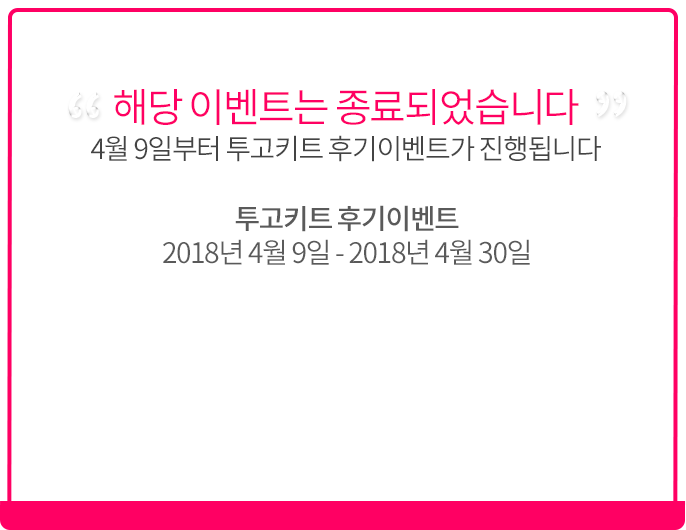
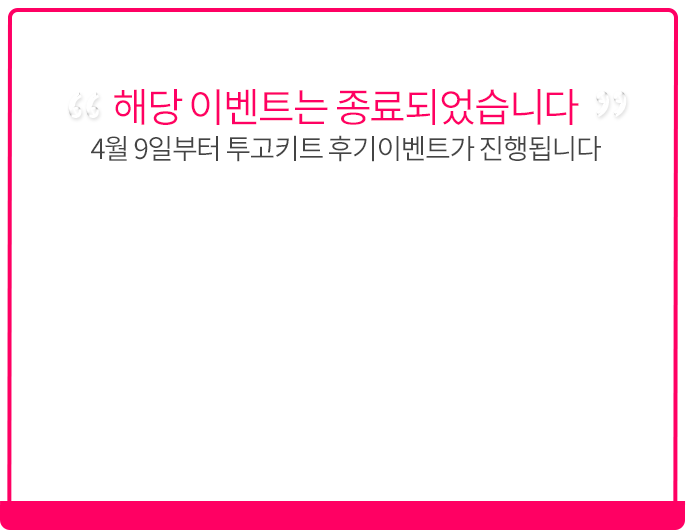
이벤트 1 종료 팝업 완료

Changed region(s): [[0.2449, 0.3925, 0.7959, 0.5132]]

diff --git a/css/common.css b/css/common.css
@@ -160,8 +160,16 @@ a {
 .c-popup.event-end .c-popup__buttons {
 	position: absolute;
 	left: 50%;
-	bottom: 60px;
-	margin-left: -56px;
+	bottom: 100px;
+	margin-left: -81px;
+}
+.c-popup.event-end .c-popup__button {
+	width: 163px;
+	height: 188px;
+	padding: 0 11px 39px 0;
+	background: url(../images/common/c-popup__button_end.png);
+	font-size: 32px;
+	
 }
 
 .c-popup__aligner.c-popup__aligner--line {

diff --git a/m/css/common.css b/m/css/common.css
@@ -191,7 +191,7 @@ a {
 }
 .c-popup.event-end .c-popup__aligner .c-popup__box .c-popup__buttons {
 	position: absolute;
-	bottom: 22px;
+	bottom: 35px;
 	left: 50%;
 	margin-left: -40px;
 }

diff --git a/m/index.php b/m/index.php
@@ -24,9 +24,19 @@
 				<div class="c-section">
 					<div class="m-visual">
 						<img src="./images/pages/m-visual.png" alt="메이크업은 말끔하게 지우고 건강한 피부만 남겨요 ! 제한 시간 동안 메이크업을 말끔하게 지워주세요 추첨을 통해 제품을 선물로 드립니다" />
-						<button class="m-visual__button" onclick="movePage('game')">GAME START</button>
-<!--						<button class="m-visual__button" onclick="popupOpen('popup_event_end');">GAME START</button>-->
 						<button class="m-visual__more">더보기</button>
+<?
+						if(date("Y-m-d H:i:s") > '2018-03-31 23:59:59') {
+?>	
+							<button class="m-visual__button" onclick="popupOpen('popup_event_end');">GAME START</button>
+<?					
+						}else{
+?>
+							<button class="m-visual__button" onclick="movePage('game')">GAME START</button>
+<?
+						}
+?>
+
 					</div>
 				</div>
 				<div class="c-section c-section--large scrollTarget">

diff --git a/index.php b/index.php
@@ -27,8 +27,17 @@
 						제한 시간 동안 메이크업을 말끔하게 지워주세요
 						추첨을 통해 제품을 선물로 드립니다
 					</div>
-					<button class="m-visual__button" data-move="game" onclick="wmbt.move(this)">GAME START</button>
-<!--					<button class="m-visual__button" data-layer-popup="popup_event_end" onclick="wmbt.popupOpen(this)">GAME START</button>-->
+<?
+					if(date("Y-m-d H:i:s") > '2018-03-31 23:59:59') {
+?>	
+						<button class="m-visual__button" data-layer-popup="popup_event_end" onclick="wmbt.popupOpen(this)">GAME START</button>
+<?					
+					}else{
+?>
+						<button class="m-visual__button" data-move="game" onclick="wmbt.move(this)">GAME START</button>
+<?
+					}
+?>
 				</div>
 				<div class="m-aligner">
 					<div class="c-section">
